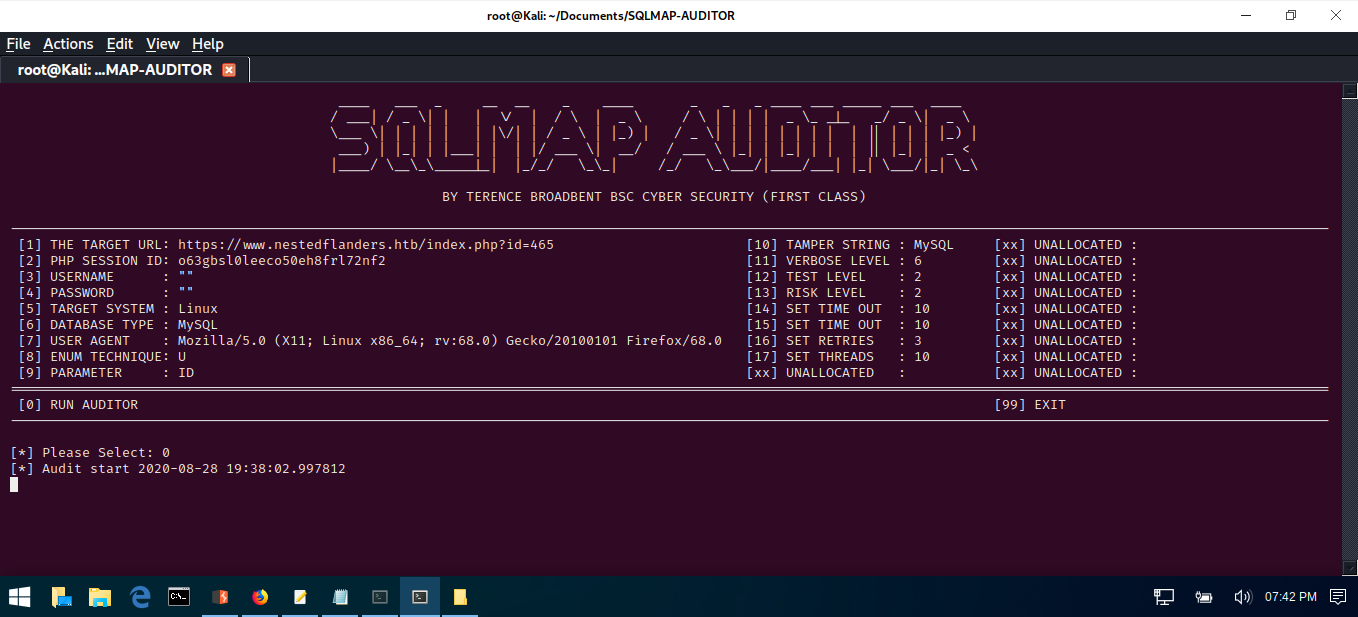
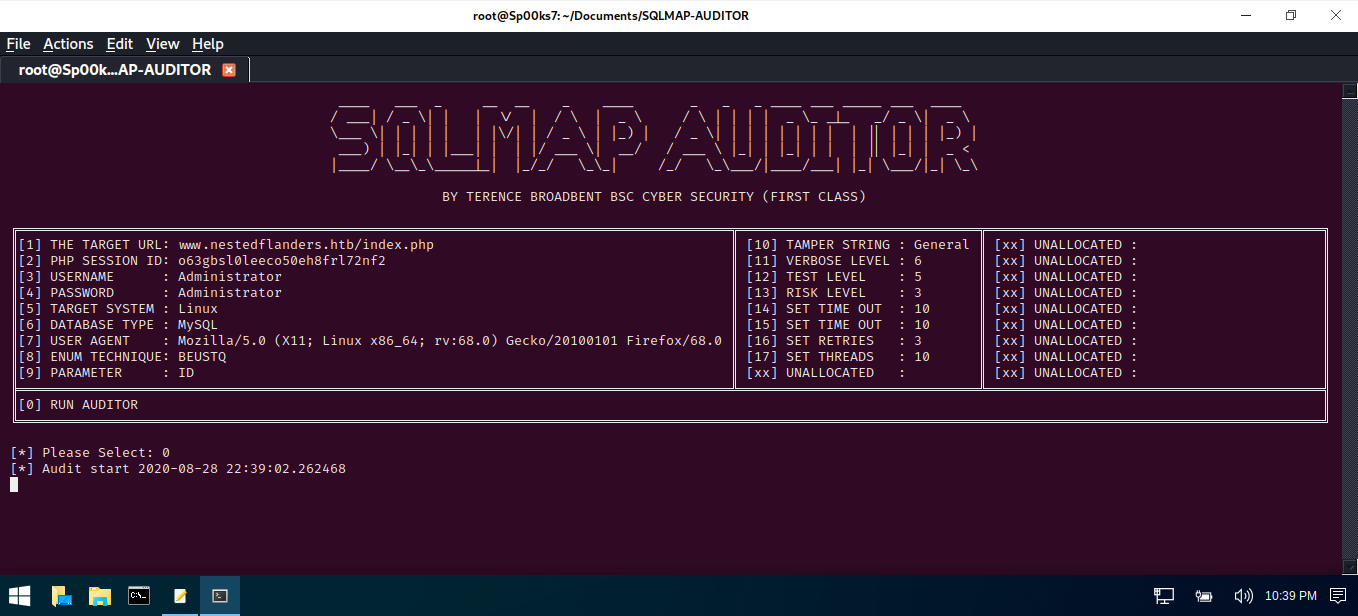
4ea7a4e54b31d39073bdd2ea8ac739c9

diff --git a/sqlmap-auditor.py b/sqlmap-auditor.py
@@ -59,20 +59,19 @@ def banner():
    print("\t\t\t\t\t              BY TERENCE BROADBENT BSC CYBER SECURITY (FIRST CLASS)             \n")
    
 def display():
-   print("-"*165)
-   print(" [1] THE TARGET URL: " + WebName[:PAD1] 	+ " [10] TAMPER STRING : " + Tamper[:PAD2]   	 + "[xx] UNALLOCATED :" + Blank[:PAD2])
-   print(" [2] PHP SESSION ID: " + CookieValue[:PAD1]	+ " [11] VERBOSE LEVEL : " + VerboseLevel[:PAD2] + "[xx] UNALLOCATED :" + Blank[:PAD2])
-   print(" [3] USERNAME      : " + UserName[:PAD1]	+ " [12] TEST LEVEL    : " + Level[:PAD2]	 + "[xx] UNALLOCATED :" + Blank[:PAD2])
-   print(" [4] PASSWORD      : " + PassWord[:PAD1]	+ " [13] RISK LEVEL    : " + Risk[:PAD2]	 + "[xx] UNALLOCATED :" + Blank[:PAD2])
-   print(" [5] TARGET SYSTEM : " + OperatingSys[:PAD1]	+ " [14] SET TIME OUT  : " + TimeOut[:PAD2]  	 + "[xx] UNALLOCATED :" + Blank[:PAD2])
-   print(" [6] DATABASE TYPE : " + DataBase[:PAD1]	+ " [15] SET TIME OUT  : " + TimeOut[:PAD2] 	 + "[xx] UNALLOCATED :" + Blank[:PAD2])
-   print(" [7] USER AGENT    : " + UserAgent[:PAD1]	+ " [16] SET RETRIES   : " + Retries[:PAD2]	 + "[xx] UNALLOCATED :" + Blank[:PAD2])
-   print(" [8] ENUM TECHNIQUE: " + Technique[:PAD1]	+ " [17] SET THREADS   : " + Threads[:PAD2]	 + "[xx] UNALLOCATED :" + Blank[:PAD2])
-   print(" [9] PARAMETER     : " + Parameter[:PAD1]      + " [xx] UNALLOCATED   : " + Blank[:PAD2]	 + "[xx] UNALLOCATED :" + Blank[:PAD2])
-   print("="*165)
-   print(" [0] RUN AUDITOR     " + " "*(22+PAD1+PAD2)	+ "[99] EXIT")
-   print("-"*165)
-
+   print('\u2554' + ('\u2550')*89 + '\u2566' + ('\u2550')*30 + '\u2566' + ('\u2550')*42 + '\u2557')
+   print('\u2551' + "[1] THE TARGET URL: " + WebName[:PAD1] 	 + '\u2551' + " [10] TAMPER STRING : " + Tamper[:PAD2]  + '\u2551' + " [xx] UNALLOCATED :" + Blank2[:PAD3] + '\u2551')
+   print('\u2551' + "[2] PHP SESSION ID: " + CookieValue[:PAD1]	 + '\u2551' + " [11] VERBOSE LEVEL : " + VLevel[:PAD2]  + '\u2551' + " [xx] UNALLOCATED :" + Blank2[:PAD3] + '\u2551')
+   print('\u2551' + "[3] USERNAME      : " + UserName[:PAD1]	 + '\u2551' + " [12] TEST LEVEL    : " + Level[:PAD2]	+ '\u2551' + " [xx] UNALLOCATED :" + Blank2[:PAD3] + '\u2551')
+   print('\u2551' + "[4] PASSWORD      : " + PassWord[:PAD1]	 + '\u2551' + " [13] RISK LEVEL    : " + Risk[:PAD2]	+ '\u2551' + " [xx] UNALLOCATED :" + Blank2[:PAD3] + '\u2551')
+   print('\u2551' + "[5] TARGET SYSTEM : " + OperatingSys[:PAD1] + '\u2551' + " [14] SET TIME OUT  : " + TimeOut[:PAD2] + '\u2551' + " [xx] UNALLOCATED :" + Blank2[:PAD3] + '\u2551')
+   print('\u2551' + "[6] DATABASE TYPE : " + DataBase[:PAD1]	 + '\u2551' + " [15] SET TIME OUT  : " + TimeOut[:PAD2] + '\u2551' + " [xx] UNALLOCATED :" + Blank2[:PAD3] + '\u2551')
+   print('\u2551' + "[7] USER AGENT    : " + UserAgent[:PAD1]	 + '\u2551' + " [16] SET RETRIES   : " + Retries[:PAD2]	+ '\u2551' + " [xx] UNALLOCATED :" + Blank2[:PAD3] + '\u2551')
+   print('\u2551' + "[8] ENUM TECHNIQUE: " + Technique[:PAD1]	 + '\u2551' + " [17] SET THREADS   : " + Threads[:PAD2]	+ '\u2551' + " [xx] UNALLOCATED :" + Blank2[:PAD3] + '\u2551')
+   print('\u2551' + "[9] PARAMETER     : " + Parameter[:PAD1]    + '\u2551' + " [xx] UNALLOCATED   : " + Blank1[:PAD2]	+ '\u2551' + " [xx] UNALLOCATED :" + Blank2[:PAD3] + '\u2551')
+   print('\u2560' + ('\u2550')*89 + '\u2569' + ('\u2550')*10 + ('\u2550')*20 + '\u2569' + ('\u2550')*42 + '\u2563')
+   print('\u2551' + "[0] RUN AUDITOR     " + " "*(PAD1) + " "*(74) + '\u2551')
+   print('\u255A' + ('\u2550')*90 + ('\u2550')*73 + '\u255D')
 
 def padding(variable,value):
    variable = variable.rstrip("\n")
@@ -92,8 +91,9 @@ def pause():
 # Modified: N/A
 # -------------------------------------------------------------------------------------
 
-PAD1		= 70
-PAD2		= 10
+PAD1		= 69
+PAD2		= 8
+PAD3		= 23
 
 UserName	= "Administrator"
 PassWord	= "Administrator"
@@ -115,23 +115,25 @@ UserAgent	= padding(UserAgent, PAD1)
 Technique	= padding(Technique, PAD1)
 Parameter	= padding(Parameter, PAD1)
 
-VerboseLevel	= "6"
+VLevel		= "6"
 TimeDelay	= "5"
 TimeOut		= "10"
 Retries		= "3"
 Threads		= "10"
 Level 		= "5"
 Risk		= "3"
-Blank		= " "
+Blank1		= " "
+Blank2		= " "
 
-VerboseLevel	= padding(VerboseLevel, PAD2)
+Blank1 		= padding(Blank1, PAD2)
+Blank2		= padding(Blank2, PAD3)
+VLevel		= padding(VLevel, PAD2)
 TimeDelay	= padding(TimeDelay, PAD2)
 TimeOut		= padding(TimeOut, PAD2)
 Retries		= padding(Retries, PAD2)
 Threads		= padding(Threads, PAD2)
 Level 		= padding(Level, PAD2)
 Risk		= padding(Risk, PAD2)
-Blank 		= padding(Blank, PAD2)
 Tamper		= padding(Tamper, PAD2)
 
 OSList		= "Linux, Windows"
@@ -179,7 +181,7 @@ while True:
       injectable = True
       print("[*] Audit start", datetime.datetime.now())
 
-      command = "sqlmap -v " + VerboseLevel.rstrip(" ") + " -u " + WebName.rstrip(" ") + "-p " + Parameter.rstrip(" ") +  " --data='username=" + UserName.rstrip(" ") + "&password=" + PassWord.rstrip(" ") + "' --user-agent='" + UserAgent.rstrip(" ") + "' --delay=" + TimeDelay.rstrip(" ") + " --timeout=" + TimeOut.rstrip(" ") + " --retries=" + Retries.rstrip(" ") + " --keep-alive --threads=" + Threads.rstrip(" ") + " --batch --dbms=" + DataBase.rstrip(" ") + " --os=" + OperatingSys.rstrip(" ") + " --level=" + Level.rstrip(" ") + " --risk=" + Risk.rstrip(" ") + " --tamper=" + Tamper_SeLEC.rstrip(" ") + " --cookie='PHPSESSIONID=" + CookieValue.rstrip(" ") + "; security=low' --banner --is-dba --dbs --tables --technique=" + Technique.rstrip(" ") + " --dump-all -s logs/scan_report.txt --flush-session -t logs/scan_trace.txt --fresh-queries > logs/scan_out.txt"
+      command = "sqlmap -v " + VLevel.rstrip(" ") + " -u " + WebName.rstrip(" ") + "-p " + Parameter.rstrip(" ") +  " --data='username=" + UserName.rstrip(" ") + "&password=" + PassWord.rstrip(" ") + "' --user-agent='" + UserAgent.rstrip(" ") + "' --delay=" + TimeDelay.rstrip(" ") + " --timeout=" + TimeOut.rstrip(" ") + " --retries=" + Retries.rstrip(" ") + " --keep-alive --threads=" + Threads.rstrip(" ") + " --batch --dbms=" + DataBase.rstrip(" ") + " --os=" + OperatingSys.rstrip(" ") + " --level=" + Level.rstrip(" ") + " --risk=" + Risk.rstrip(" ") + " --tamper=" + Tamper_SeLEC.rstrip(" ") + " --cookie='PHPSESSIONID=" + CookieValue.rstrip(" ") + "; security=low' --banner --is-dba --dbs --tables --technique=" + Technique.rstrip(" ") + " --dump-all -s logs/scan_report.txt --flush-session -t logs/scan_trace.txt --fresh-queries > logs/scan_out.txt"
       # print(command); exit(0) # Debug command
       os.system(command)
       
@@ -407,18 +409,18 @@ while True:
 # AUTHOR  : Terence Broadbent
 # CONTRACT: GitHub
 # Version : 1.0
-# Details : Change the value of VerboseLevel
+# Details : Change the value of VLevel
 # AUTHOR  : Terence Broadbent
 # -------------------------------------------------------------------------------------
 
    if selection =='11':
       print("[+] Available Options:", VEList)
-      Restore = VerboseLevel
-      VerboseLevel = input("[*] Please enter verbose value: ")
-      if VerboseLevel != "" and VerboseLevel in VEList:
-         VerboseLevel = padding(VerboseLevel, PAD2)
+      Restore = VLevel
+      VLevel = input("[*] Please enter VLevel value: ")
+      if VLevel != "" and VLevel in VEList:
+         VLevel = padding(VLevel, PAD2)
       else:
-         VerboseLevel = Restore
+         VLevel = Restore
    
 # ------------------------------------------------------------------------------------- 
 # AUTHOR  : Terence Broadbent

diff --git a/README.md b/README.md
@@ -7,7 +7,7 @@ Usage: python3 sql-auditor.py docker.website.eu:46550
 
 | LANGUAGE | FILENAME       | MD5 HASH                         | 
 |--------  |---------       |---------                         | 
-| python   | sql-auditor.py | 12fb89434a456709971e21ba741406aa | 
+| python   | sql-auditor.py | 4ea7a4e54b31d39073bdd2ea8ac739c9 | 
 | css      | style.css      | 988339bb494857ed7c2439ea9a7fc494 |
 
 This python script-file aims to provide the development team with a quick and easy way to perform automated audit tests against their own web application projects over it's implementation phase.
